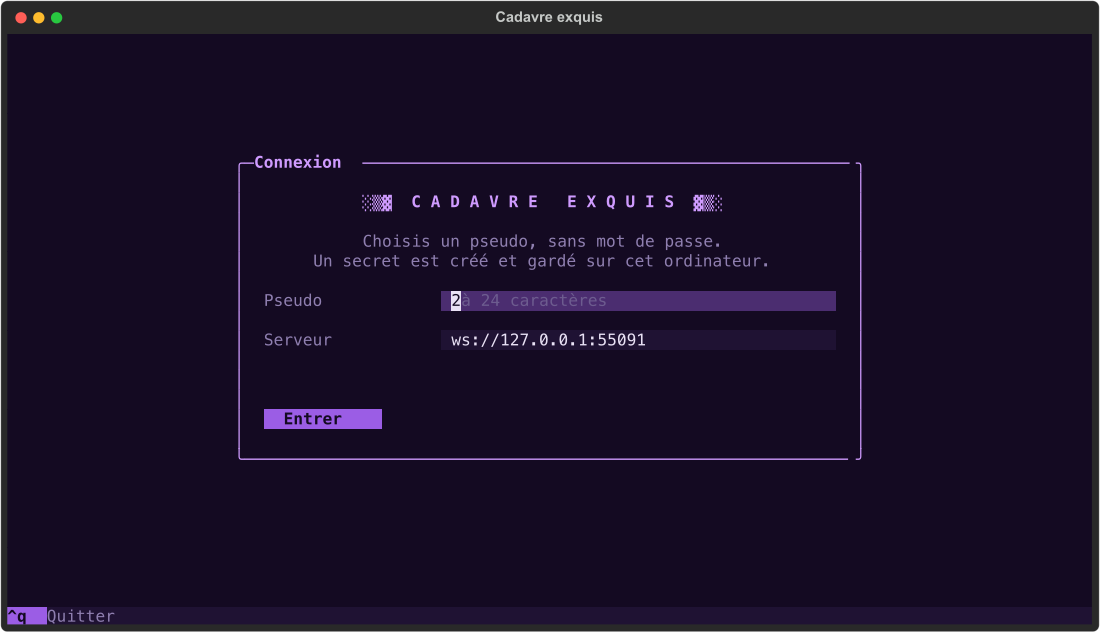
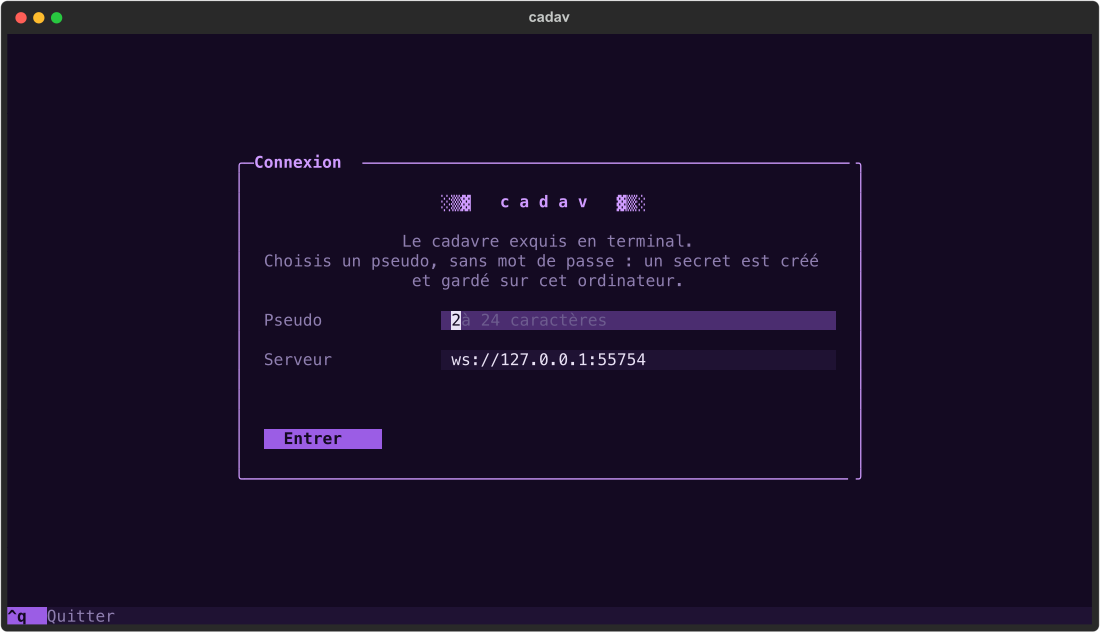
Renommage : l'application s'appelle cadav (titres, commande, dossier de configuration)

diff --git a/cadavre/client/screens.py b/cadavre/client/screens.py
@@ -65,7 +65,7 @@ class TopBar(Horizontal):
     def refresh_bar(self) -> None:
         app = self.app
         self.query_one("#brand", Static).update(
-            Text.assemble(("▌Cadavre exquis", "bold"), (f"  ›  {self.place}", MUTED))
+            Text.assemble(("▌cadav", "bold"), (f"  ›  {self.place}", MUTED))
         )
         dot, color, label = STATE_TEXT.get(app.status, ("○", MUTED, app.status))
         server = app.config.url.split("://", 1)[-1]
@@ -136,9 +136,9 @@ class LoginScreen(Screen):
         config = self.app.config
         with Vertical(id="login-card", classes="pane") as card:
             card.border_title = "Connexion"
-            yield Static("░▒▓  C A D A V R E   E X Q U I S  ▓▒░", id="logo")
+            yield Static("░▒▓   c a d a v   ▓▒░", id="logo")
             yield Static(
-                "Choisis un pseudo, sans mot de passe.\nUn secret est créé et gardé sur cet ordinateur.",
+                "Le cadavre exquis en terminal.\nChoisis un pseudo, sans mot de passe : un secret est créé et gardé sur cet ordinateur.",
                 id="tagline",
                 classes="muted",
             )

diff --git a/cadavre/client/__main__.py b/cadavre/client/__main__.py
@@ -5,7 +5,7 @@ from cadavre.client.app import CadavreApp
 
 
 def main(argv: list[str] | None = None) -> None:
-    parser = argparse.ArgumentParser(prog="cadavre play", description="Cadavre exquis en terminal")
+    parser = argparse.ArgumentParser(prog="cadav play", description="cadav : cadavre exquis en terminal")
     parser.add_argument("--url", help="adresse du serveur, ex. ws://localhost:8765")
     parser.add_argument("--config", type=Path, help="fichier de configuration locale")
     args = parser.parse_args(argv)

diff --git a/cadavre/cli.py b/cadavre/cli.py
@@ -1,13 +1,13 @@
-"""Command line entry point: ``cadavre serve`` and ``cadavre play``."""
+"""Command line entry point: ``cadav serve`` and ``cadav play``."""
 
 from __future__ import annotations
 
 import sys
 
-USAGE = """usage: cadavre {serve,play} [options]
+USAGE = """usage: cadav {serve,play} [options]
 
-  serve   lance le serveur (cadavre serve --help)
-  play    lance le client  (cadavre play --help)
+  serve   lance le serveur (cadav serve --help)
+  play    lance le client  (cadav play --help)
 """
 
 

diff --git a/cadavre/server.py b/cadavre/server.py
@@ -470,7 +470,7 @@ def main(argv: list[str] | None = None) -> None:
     import ssl as ssl_lib
     from pathlib import Path
 
-    parser = argparse.ArgumentParser(prog="cadavre serve", description="Serveur de cadavre exquis")
+    parser = argparse.ArgumentParser(prog="cadav serve", description="cadav : serveur de cadavre exquis")
     parser.add_argument("--host", default="127.0.0.1")
     parser.add_argument("--port", type=int, default=8765)
     parser.add_argument("--data-dir", default="data")

diff --git a/cadavre/client/config.py b/cadavre/client/config.py
@@ -14,10 +14,10 @@ DEFAULT_URL = "ws://localhost:8765"
 
 
 def default_config_path() -> Path:
-    if env := os.environ.get("CADAVRE_CONFIG"):
+    if env := os.environ.get("CADAV_CONFIG"):
         return Path(env)
     base = Path(os.environ.get("XDG_CONFIG_HOME") or Path.home() / ".config")
-    return base / "cadavre" / "config.json"
+    return base / "cadav" / "config.json"
 
 
 def new_secret() -> str:

diff --git a/tests/test_cli.py b/tests/test_cli.py
@@ -18,4 +18,4 @@ def test_subcommands_are_wired(command, capsys):
     with pytest.raises(SystemExit) as e:
         cli.main([command, "--help"])
     assert e.value.code == 0
-    assert f"cadavre {command}" in capsys.readouterr().out
+    assert f"cadav {command}" in capsys.readouterr().out

diff --git a/cadavre/client/app.py b/cadavre/client/app.py
@@ -45,7 +45,7 @@ _EVENTS_WITH_VIEW = (PlayerJoined, PlayerLeft, GameStarted, TurnStarted, TurnSki
 
 
 class CadavreApp(App):
-    TITLE = "Cadavre exquis"
+    TITLE = "cadav"
     CSS = APP_CSS
     ENABLE_COMMAND_PALETTE = False
     BINDINGS = [Binding("ctrl+q", "quit", "Quitter")]

diff --git a/cadavre/client/theme.py b/cadavre/client/theme.py
@@ -22,7 +22,7 @@ FOREGROUND = "#e9e1f5"
 MUTED = "#8f7fb0"
 
 CADAVRE_THEME = Theme(
-    name="cadavre",
+    name="cadav",
     primary=PRIMARY,
     secondary=SECONDARY,
     accent=ACCENT,

diff --git a/cahier-des-charges.md b/cahier-des-charges.md
@@ -1,4 +1,4 @@
-# Cadavre exquis en terminal — Cahier des charges v1 (révision 6)
+# cadav, cadavre exquis en terminal — Cahier des charges v1 (révision 7)
 
 ## 1. Objectif
 Jeu de cadavre exquis textuel multijoueur, joué dans le terminal via une TUI. Un serveur central gère le lobby et toutes les parties. Les joueurs s'inscrivent (très léger), créent ou rejoignent des parties en attente de joueurs, et écrivent à tour de rôle une histoire commune.
@@ -21,7 +21,8 @@ Jeu de cadavre exquis textuel multijoueur, joué dans le terminal via une TUI. U
 | Identité | Pseudo + secret local, sans mot de passe |
 | Persistance | Fichiers JSON, écriture atomique, pas de base de données |
 | Parties par joueur | Plusieurs en parallèle, plafond de 5 parties actives par pseudo |
-| Code | Un seul paquet : `cadavre play` (client) et `cadavre serve` (serveur) |
+| Nom | L'application s'appelle **cadav** (en minuscules) : titres, commandes (`cadav serve`, `cadav play`), dossier de configuration (`~/.config/cadav/`). Le paquet Python interne reste `cadavre/` |
+| Code | Un seul paquet : `cadav play` (client) et `cadav serve` (serveur) |
 | Langue | Interface en français pour l'instant |
 | Export | Copie dans le presse-papiers et export `.txt` / `.md` depuis l'écran final |
 
@@ -120,7 +121,7 @@ cadavre/
   server.py        # WebSocket, lobby, échéances
   storage.py       # JSON atomique (users, games, archive)
   client/          # app Textual : app.py, screens.py, connection.py, config.py, logic.py
-  cli.py           # cadavre play | cadavre serve
+  cli.py           # cadav play | cadav serve
 tests/
 ```
 La logique de jeu reste pure (sans réseau ni disque), donc testable seule.
@@ -151,12 +152,12 @@ Notifications push (ntfy.sh ou webhook), i18n. Idées plus lointaines : mode gui
 - Chaque changement est écrit sur disque avant d'être oublié ; une erreur d'écriture est journalisée sans faire tomber la partie. Un fichier de partie illisible est ignoré au démarrage.
 - Les parties terminées passent de `data/games/` à `data/archive/` ; une salle vidée ou expirée est supprimée.
 - Un `leave_game` ou `submit_text` d'un non-membre renvoie `not_in_game`, sans révéler si la partie existe.
-- Lancement du serveur : `cadavre serve --port 8765 --data-dir data` (options `--cert` et `--key` pour TLS), équivalent à `python -m cadavre.server`.
+- Lancement du serveur : `cadav serve --port 8765 --data-dir data` (options `--cert` et `--key` pour TLS), équivalent à `python -m cadavre.server`.
 - Dépendance ajoutée : `websockets` (prévue au §3).
 
 ## 18. Décisions d'implémentation (jalon 3)
-- Le client est un paquet `cadavre/client/` : `logic.py` (analyse du formulaire et textes, sans Textual ni réseau, testé seul), `config.py`, `connection.py` (WebSocket), `screens.py` et `app.py`. Lancement : `cadavre play [--url ws://…] [--config fichier]`, équivalent à `python -m cadavre.client`.
-- Configuration locale : `~/.config/cadavre/config.json` (ou `$XDG_CONFIG_HOME`, ou `$CADAVRE_CONFIG`), contenant `pseudo`, `secret` (64 caractères hexadécimaux) et `url` ; écrite de façon atomique avec les droits `0600`. URL par défaut : `ws://localhost:8765`.
+- Le client est un paquet `cadavre/client/` : `logic.py` (analyse du formulaire et textes, sans Textual ni réseau, testé seul), `config.py`, `connection.py` (WebSocket), `screens.py` et `app.py`. Lancement : `cadav play [--url ws://…] [--config fichier]`, équivalent à `python -m cadavre.client`.
+- Configuration locale : `~/.config/cadav/config.json` (ou `$XDG_CONFIG_HOME`, ou `$CADAV_CONFIG`), contenant `pseudo`, `secret` (64 caractères hexadécimaux) et `url` ; écrite de façon atomique avec les droits `0600`. URL par défaut : `ws://localhost:8765`.
 - Premier lancement : écran de connexion (pseudo + serveur) ; le secret est généré à ce moment et n'est enregistré qu'une fois l'inscription acceptée. Un secret refusé par le serveur ramène à l'écran de connexion ; saisir le même pseudo réutilise le secret stocké, un autre pseudo crée un nouveau compte.
 - Reconnexion automatique (1, 2, 4 puis 8 s) avec ré-authentification ; pas de reconnexion si la connexion a été remplacée par un autre terminal (code 4000) ou si le client est trop ancien (code 4001).
 - Le client ne garde que `games` (les projections reçues) et `lobby` ; chaque message serveur remplace la projection concernée, et l'écran affiché se met à jour.
@@ -166,7 +167,7 @@ Notifications push (ntfy.sh ou webhook), i18n. Idées plus lointaines : mode gui
 - Dépendance ajoutée : `textual` (prévue au §3).
 
 ## 19. Habillage et raccourcis (révision 6)
-- Thème Textual `cadavre` et feuille de style commune dans `cadavre/client/theme.py` (palette violette, pastilles `chip()`) ; styles propres à chaque écran dans la classe de l'écran (`CSS`, pas `DEFAULT_CSS`, qui serait écrasé par la feuille commune).
+- Thème Textual `cadav` et feuille de style commune dans `cadavre/client/theme.py` (palette violette, pastilles `chip()`) ; styles propres à chaque écran dans la classe de l'écran (`CSS`, pas `DEFAULT_CSS`, qui serait écrasé par la feuille commune).
 - Barre du haut (`TopBar`) sur chaque écran sauf la connexion ; pied de page Textual sans palette de commandes.
 - Lobby : deux panneaux (« Mes parties » avec pastilles `À TOI`, `ATTENTE`, `EN COURS`, `TERMINÉE` ; « Parties publiques ») et un panneau « Rejoindre avec un code ». Raccourcis : `n` nouvelle partie, `c` saisir un code, `Entrée` ouvrir ou rejoindre la ligne choisie, `Ctrl+Q` quitter. Au retour d'un autre écran, le focus revient sur la liste pour que `n` et `c` fonctionnent.
 - Création : deux panneaux (« Partie », « Écriture »). `Ctrl+S` crée, `Échap` annule.

diff --git a/README.md b/README.md
@@ -1,10 +1,10 @@
-# Cadavre exquis
+# cadav
 
 [![CI](https://github.com/charlescoiffier/cadav/actions/workflows/ci.yml/badge.svg)](https://github.com/charlescoiffier/cadav/actions/workflows/ci.yml)
 ![Python 3.11+](https://img.shields.io/badge/python-3.11%2B-blue)
 ![Jalon](https://img.shields.io/badge/jalon-3%20sur%206-orange)
 
-Un jeu de cadavre exquis textuel et multijoueur, à jouer dans le terminal. Un serveur central gère le lobby et toutes
+**cadav** est un jeu de cadavre exquis textuel et multijoueur, à jouer dans le terminal. Un serveur central gère le lobby et toutes
 les parties ; chaque joueur écrit à son tour un morceau d'histoire sans voir ce qu'ont écrit les autres.
 
 > **État du projet : en construction.** On peut déjà lancer un serveur, se connecter, créer ou rejoindre une partie et attendre les autres joueurs
@@ -110,7 +110,7 @@ cadavre/
   game.py          # logique pure : ordre, tours, amorce, échéances, view_for
   storage.py       # JSON atomique : comptes, parties en cours, archives
   server.py        # WebSocket : comptes, lobby, parties, échéances
-  cli.py           # cadavre serve | cadavre play
+  cli.py           # cadav serve | cadav play
   client/
     theme.py       # thème violet, feuille de style commune, pastilles
     app.py         # application Textual : connexion, état, navigation
@@ -139,16 +139,16 @@ Depuis le dossier du projet (sur macOS la commande `python` n'existe pas : on pa
 l'environnement avec `source .venv/bin/activate`). Dans un premier terminal, le serveur :
 
 ```bash
-.venv/bin/cadavre serve --port 8765 --data-dir data
+.venv/bin/cadav serve --port 8765 --data-dir data
 ```
 
 Dans un ou plusieurs autres, un client (`--config` permet de simuler plusieurs joueurs sur la même machine) :
 
 ```bash
-.venv/bin/cadavre play --url ws://localhost:8765 --config /tmp/joueur1.json
+.venv/bin/cadav play --url ws://localhost:8765 --config /tmp/joueur1.json
 ```
 
-Sans `--config`, le pseudo et le secret sont gardés dans `~/.config/cadavre/config.json` (droits `0600`).
+Sans `--config`, le pseudo et le secret sont gardés dans `~/.config/cadav/config.json` (droits `0600`).
 
 ## Principes
 

diff --git a/CLAUDE.md b/CLAUDE.md
@@ -1,4 +1,4 @@
-# Cadavre exquis TUI
+# cadav : cadavre exquis TUI
 
 Jeu de cadavre exquis textuel multijoueur en terminal (Python, Textual, WebSocket).
 
